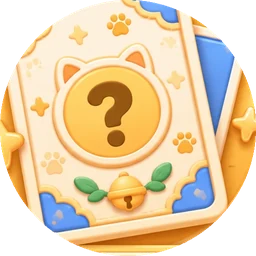
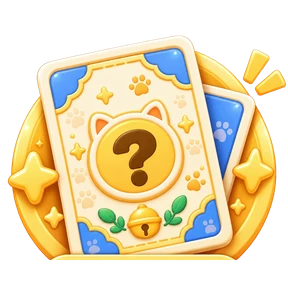
board: 市場事件圖示換成去背插畫(標籤改程式文字,中英可切換);標籤樣式對齊插畫的金 / 粉圓餅

diff --git a/public/catinsight-3d/board/style.css b/public/catinsight-3d/board/style.css
@@ -268,7 +268,8 @@ body.remote #ctl .roll{opacity:.55}
 .rb img{width:100%;aspect-ratio:1;display:block;filter:drop-shadow(0 3px 0 rgba(0,0,0,.14));transition:transform .15s}
 .rb:active img{transform:scale(.94)}
 .rb.on img{transform:scale(1.06)}
-.rb span{background:#fff;border:2px solid var(--line);border-radius:999px;padding:1px 9px;font-weight:900;font-size:calc(11px * var(--fs));color:#6b594e;white-space:nowrap;margin-top:-6px}
+.rb span{background:#fff6dc;border:2px solid #f2b23c;border-radius:999px;padding:1px 10px;font-weight:900;font-size:calc(11px * var(--fs));color:#6b4a1e;white-space:nowrap;margin-top:-12px;position:relative;z-index:1;box-shadow:0 2px 0 rgba(0,0,0,.12)}
+#missBtn span{border-color:#f0869a;color:#8a3b4a;background:#fff0f3}
 .rb .bd{position:absolute;top:-2px;right:-2px;min-width:20px;height:20px;padding:0 5px;border-radius:999px;background:#ff5a4f;color:#fff;font-style:normal;font-weight:900;font-size:calc(12px * var(--fs));display:flex;align-items:center;justify-content:center;border:2px solid #fff}
 .rb .bd.hide{display:none}
 .rpop{display:flex;flex-direction:column;gap:10px;width:calc(236px * var(--fs));min-height:0}

diff --git a/public/catinsight-3d/board/join/index.html b/public/catinsight-3d/board/join/index.html
@@ -12,7 +12,7 @@
 <link rel="apple-touch-icon" href="/catinsight-3d/icon-192.png">
 <title>貓咪股市大富翁 · 手機遙控</title>
 <link rel="preload" as="image" href="../card-event.webp"><link rel="preload" as="image" href="../card-fate.webp"><link rel="preload" as="image" href="../card-gift.webp">
-<link rel="stylesheet" href="../style.css?v=7">
+<link rel="stylesheet" href="../style.css?v=8">
 <style>
   /* 手機遙控頁:沒有 3D 棋盤,只有自己的資產和主機鏡射過來的面板 */
   html,body{height:100%}

diff --git a/public/catinsight-3d/board/index.html b/public/catinsight-3d/board/index.html
@@ -12,7 +12,7 @@
 <meta name="apple-mobile-web-app-title" content="CatInsight">
 <meta name="theme-color" content="#c9e8b8">
 <link rel="apple-touch-icon" href="/catinsight-3d/icon-192.png">
-<link rel="stylesheet" href="style.css?v=7">
+<link rel="stylesheet" href="style.css?v=8">
 <script type="importmap">
 { "imports": {
   "three": "https://cdn.jsdelivr.net/npm/three@0.174.0/build/three.module.js",

diff --git a/public/catinsight-3d/index.html b/public/catinsight-3d/index.html
@@ -239,6 +239,6 @@
   <button id="next" aria-label="forward">›</button>
 </div>
 <div id="loading">building the room…</div>
-<script type="module" src="./room.mjs?v=226"></script>
+<script type="module" src="./room.mjs?v=227"></script>
 </body>
 </html>
